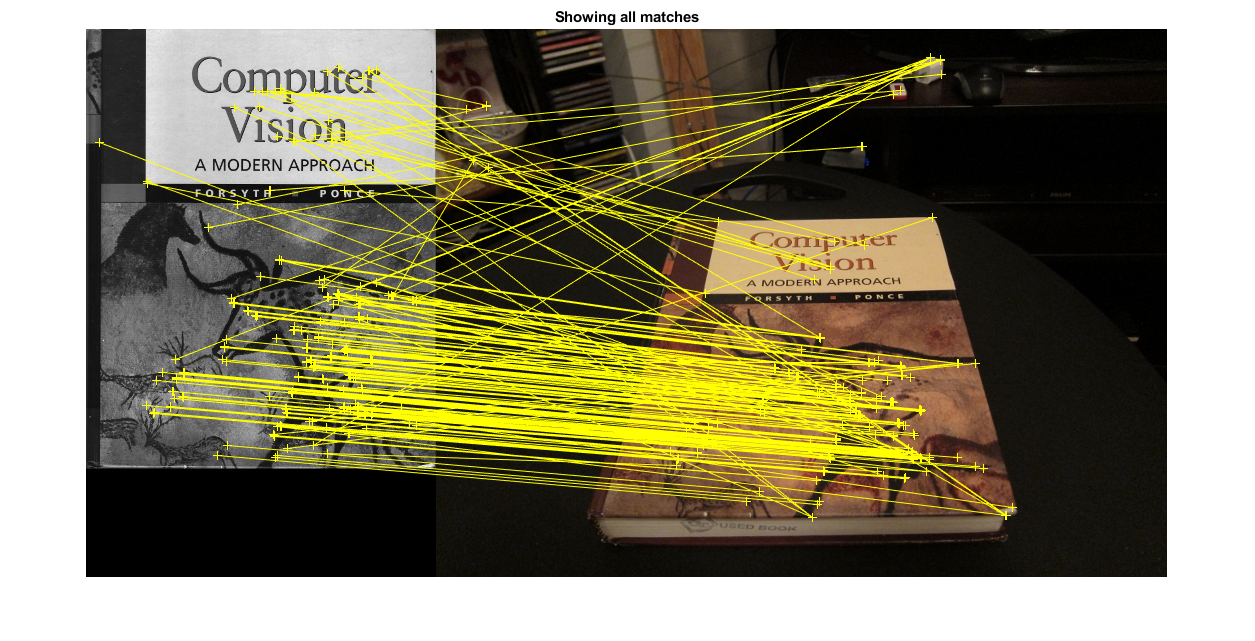
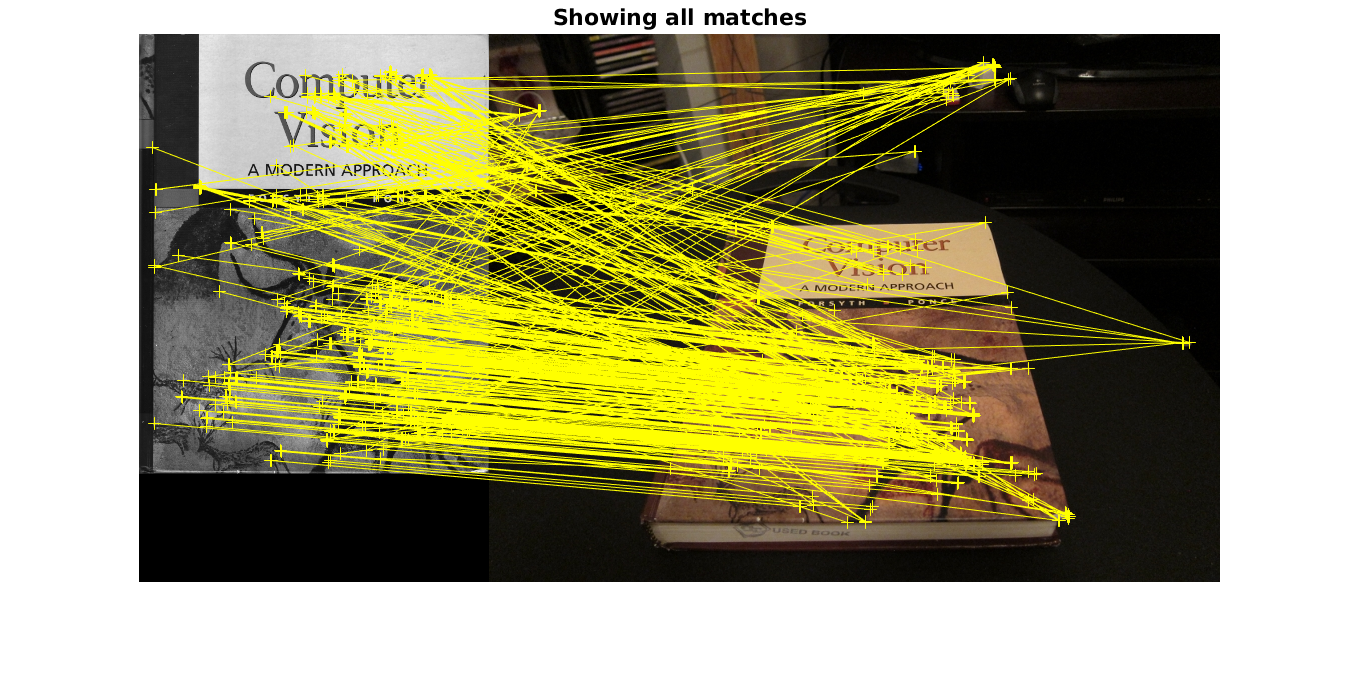
panorama

diff --git a/assgn2_no_cv_package/ec/panorama.m b/assgn2_no_cv_package/ec/panorama.m
@@ -1,1 +1,64 @@
-% Q4.3x
+%Q2.2.4
+clear all;
+close all;
+
+addpath('../matlab')
+
+right_img = imread('../data/pano2_right.jpg');
+left_img = imread('../data/pano2_left.jpg');
+
+%% Extract features and match
+[locs1, locs2] = matchPics(right_img, left_img);
+
+%% Compute homography using RANSAC
+[H, ~] = computeH_ransac(locs1, locs2);
+
+%% Scale harry potter image to template size
+% Why is this is important?
+scaled_right_img = imresize(right_img, [size(right_img,1) size(right_img,2)]);
+
+H_ = inv(H);
+
+[w,h] = size(left_img);
+disp(w);
+disp(h);
+X = H*[w,h,1]';
+x0 = X(1)/X(3);
+y0 = X(2)/X(3);
+
+X = H*[0,h,1]';
+x1 = X(1)/X(3);
+y1 = X(2)/X(3);
+
+X = H*[0,0,1]';
+x2 = X(1)/X(3);
+y2 = X(2)/X(3);
+
+X = H*[w,0,1]';
+x3 = X(1)/X(3);
+y3 = X(2)/X(3);
+
+minx = floor(min([x0,x1,x2,x3]));
+maxx = floor(max([x0,x1,x2,x3]));
+miny = floor(min([y0,y1,y2,y3]));
+maxy = floor(max([y0,y1,y2,y3]));
+
+disp([minx, maxx, miny, maxy]);
+
+w = max([w,maxx])-minx;
+h = max([h,maxy])-miny;
+
+disp(w);
+disp(h);
+
+scaled_right_img = padarray(scaled_right_img,[-miny,0],0,'pre');
+scaled_right_img = padarray(scaled_right_img,[abs(maxy-h),abs(maxx-w)],0,'post');
+
+left_img = padarray(left_img,[-miny,0],0,'pre');
+left_img = padarray(left_img,[abs(maxy-h),abs(maxx-w)],0,'post');
+
+%% Display warped image.
+imshow(warpH(scaled_right_img, inv(H), [w,h]));
+
+%% Display composite image
+imshow(compositeH(inv(H), scaled_right_img, left_img));

diff --git a/assgn2_no_cv_package/writeup.md b/assgn2_no_cv_package/writeup.md
@@ -211,4 +211,12 @@ I do not see this happening, probably because `warpH` has already had the proble
 
 ### 6. 
 
-![](/home/daniel/Documents/projects/COMP4901L/assgn2_no_cv_package/saved_figures/harrypotterized.png)
+![](saved_figures/harrypotterized.png)
+
+## Extra Credit
+
+### Panorama
+
+![](saved_figures/pano.png)
+
+![](saved_figures/pano2.png)
